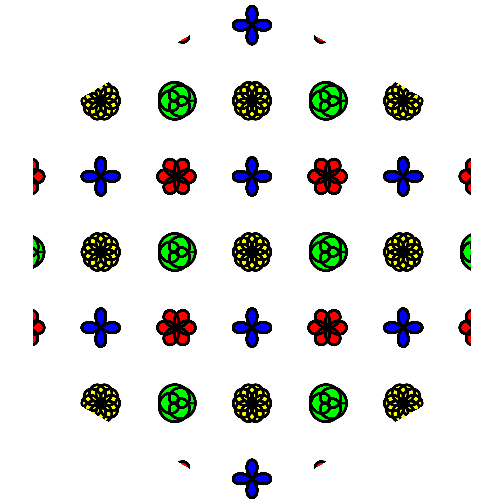
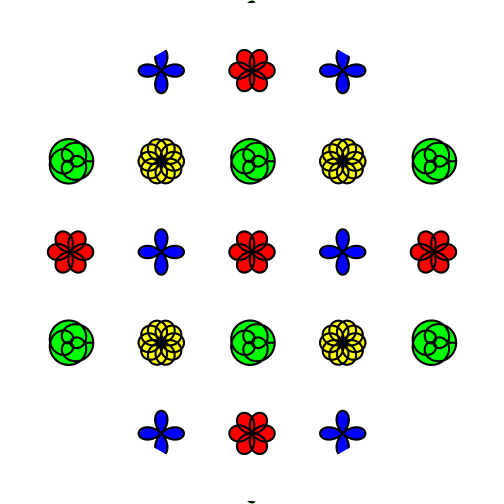
feat: Better guessing if active graphic device supports R 4.1 features
* If `names(dev.cur())` is "cairo_pdf", "pdf", "png", "svg", "X11cairo"
  then default guess the device supports R 4.1 features (if R version high enough)
  assuming relevant argument/option is `NULL`

diff --git a/NEWS.md b/NEWS.md
@@ -33,14 +33,14 @@ New Features
 
 * The following package options can now be set by `options()`:
 
-  * `ggpattern_use_R4.1_clipping` If `TRUE` use the grid clipping path feature introduced in R v4.1.0
-                    else do a `rasterGrob` approximation of the clipped pattern.
+  * `ggpattern_use_R4.1_clipping` If `TRUE` use the grid clipping path feature introduced in R v4.1.0.
+                    If `FALSE` do a `rasterGrob` approximation of the clipped pattern.
                     Currently used by `clippingPathGrob()`, `grid.pattern_rose()`, 
                     `grid.pattern_text()`, and available for custom patterns.
-  * `ggpattern_use_R4.1_features` If `TRUE` sets the default for all the other
-                    `ggpattern_use_R4.1_*` options arguments to `TRUE`.
-  * `ggpattern_use_R4.1_gradients` If `TRUE` use the grid gradient feature introduced in R v4.1.0
-                    else do a `rasterGrob` approximation of the gradient pattern.
+  * `ggpattern_use_R4.1_features` Set the default for all the other
+                    `ggpattern_use_R4.1_*` options arguments.
+  * `ggpattern_use_R4.1_gradients` If `TRUE` use the grid gradient feature introduced in R v4.1.0.
+                    If `FALSE` do a `rasterGrob` approximation of the gradient pattern.
                     Currently used by `grid.pattern_gradient()` and available for custom patterns.
   * `ggpattern_use_R4.1_masks` If `TRUE` use the grid mask feature introduced in R v4.1.0.
                     Currently unused by this package but available for custom patterns.

diff --git a/README.md b/README.md
@@ -21,8 +21,7 @@ user-specified boundary path with a user-specified pattern. These pattern grobs 
 enhanced versions of the patterns originally contained within 
 [Mike FC](https://github.com/coolbutuseless)'s awesome
 [ggpattern](https://github.com/coolbutuseless/ggpattern) package 
-(which provides patterned ``ggplot2`` "geom" functions but 
-[does not provide exported access to the underlying grobs](https://github.com/coolbutuseless/ggpattern/issues/11) themselves) as well as original "pch", "polygon_tiling", "regular_polygon", "rose", "text", "wave", and "weave" patterns.
+as well as original "pch", "polygon_tiling", "regular_polygon", "rose", "text", "wave", and "weave" patterns.
 
 `{gridpattern}` currently provides `{grid}` grob support for the following patterns:
 
@@ -130,7 +129,7 @@ grid.pattern_regular_polygon(shape = "star12", grid = "hex_circle", rot = 15,
 gp <- gpar(fill = c("blue", "red", "yellow", "green"), col = "black")
 grid.newpage()
 grid.pattern_rose(x_hex, y_hex,
-                  spacing = 0.15, density = 0.5, angle = 0,
+                  spacing = 0.18, density = 0.5, angle = 0,
                   frequency = c(2, 6/4, 5/4, 3/7), gp = gp)
 ```
 
